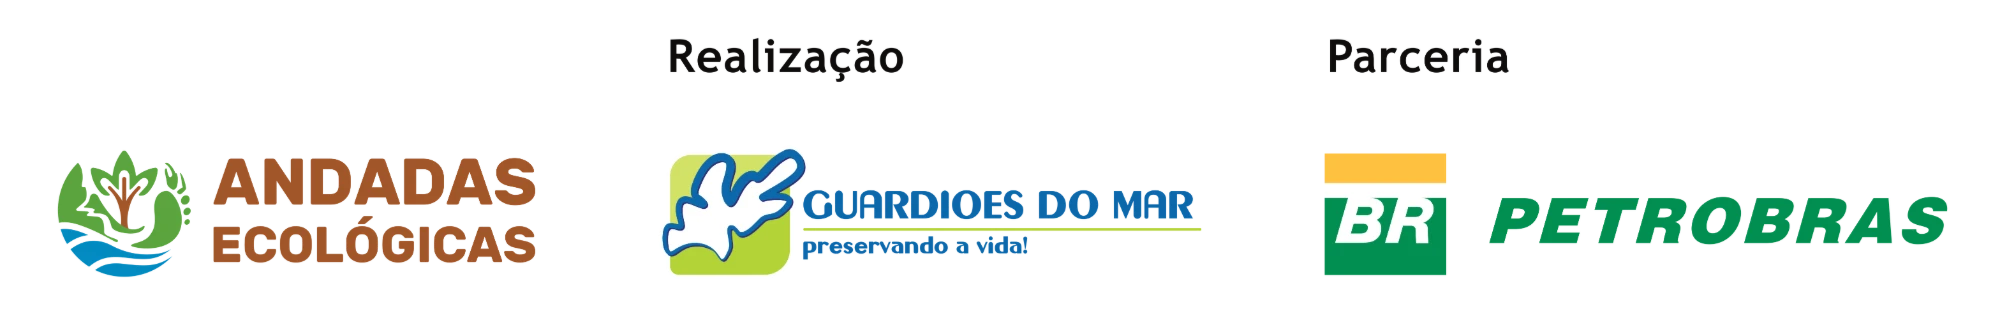
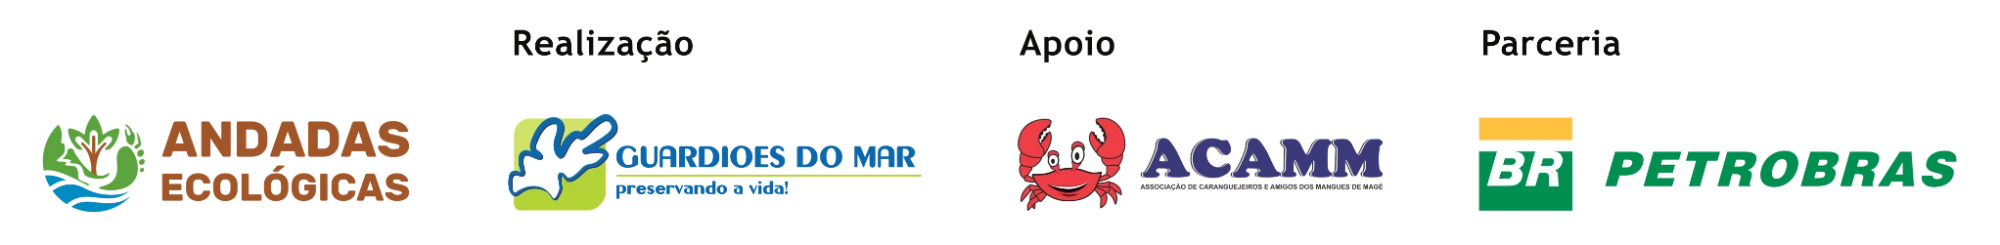
Atualiza barra de parceiros com ACAMM

diff --git a/index.html b/index.html
@@ -153,7 +153,7 @@
   </main>
 
   <footer>
-    <img class="marca" src="img/parceiros.webp" alt="Realização: Andadas Ecológicas e Guardiões do Mar. Parceria: Petrobras." width="2000" height="320">
+    <img class="marca" src="img/parceiros.webp" alt="Andadas Ecológicas. Realização: Guardiões do Mar. Apoio: ACAMM. Parceria: Petrobras." width="2000" height="245">
   </footer>
   
   <template id="modelo">
